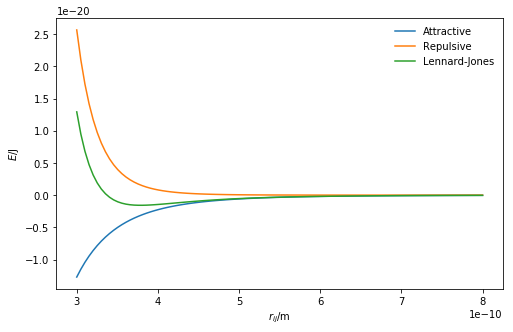
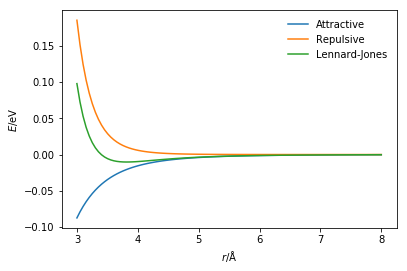
vdw after jg comments plus order change

Changed region(s): [[0.0, 0.0, 1.0, 0.9742], [0.5307, 0.9151, 0.5897, 0.9742]]

diff --git a/_build/classical_methods/van_der_waals.md b/_build/classical_methods/van_der_waals.md
@@ -4,33 +4,33 @@ redirect_from:
 interact_link: content/classical_methods/van_der_waals.ipynb
 title: 'The van der Waals interaction'
 prev_page:
+  url: /classical_methods/intro
+  title: 'Classical methods'
+next_page:
   url: /classical_methods/potential_models
   title: 'Potential models'
-next_page:
-  url: /parameterisation/intro
-  title: 'Parameterisation'
 comment: "***PROGRAMMATICALLY GENERATED, DO NOT EDIT. SEE ORIGINAL FILES IN /content***"
 ---
 
 ## The van der Waals interaction
 
-The potential model for the short-range interaction between atoms is less well defined.
-It is often referred to as the **van der Waals** interaction, and encompasses both the attractive London dispersion effects and the repulsive Pauli exclusion principle. 
-There are a variety of ways that the van der Waals interaction can be modelled. 
+Previously, you were given the opportunity to observe particles that interact only through the van der Waals interaction. 
+In order to achieve this it is necessary to have a **potential model**, a mathematical function, that is capable of modeling such an interaction. 
+It is known that the van der Waals interaction encompasses **two** forces; the first is the long-range attractive London dispersion and the second is the short-range Pauli exclusion principle.
+Therefore, or potential model must be able to model both of these aspects. 
 
-One commonly applied method is the **Lennard-Jones** potential model [[1](#references)], which considers the attractve London dispersion effects as follows, 
+One mathematical function that is commonly applied is the **Lennard-Jones** potential model [[1](#references)], which considers the attractve London dispersion forces as follows, 
 
-$$ E_{\text{attractive}}(r_{ij}) = \dfrac{-B}{r_{ij}^6},$$ 
+$$ E_{\text{attractive}}(r) = -4\varepsilon\Big(\dfrac{\sigma}{r}\Big)^6\;,$$ 
 
-where $B$ is a constant for the interaction and $r_{ij}$ is the distance between the two atoms. 
+where $\sigma$ is the distance at which the potential energy between the two particles is zero, $-\varepsilon$ is the potential energy at the equilbrium separation, and $r$ is the distance between the two atoms. 
 The Pauli exclusion principle is repulsive and only present over very short distances modelled as, 
 
-$$ E_{\text{repulsive}}(r_{ij}) = \dfrac{A}{r_{ij}^{12}},$$
+$$ E_{\text{repulsive}}(r) = 4\varepsilon\Big(\dfrac{\sigma}{r}\Big)^{12}\;,$$
 
-where $A$ is an interaction specific constant.
 The Python code below defines each of the components of the Lennard-Jones potential and the total energy of the interaction.
 These are then all plotted on a single graph. 
-The values of $A$ and $B$ are those associated with an argon-argon interaction, as defined by Rahman [[2](#references)].
+The values of $\sigma$ and $\varepsilon$ are those associated with an argon-argon interaction, as defined by Rahman [[2](#references)].
 
 
 
@@ -40,17 +40,19 @@ The values of $A$ and $B$ are those associated with an argon-argon interaction, 
 import numpy as np
 import matplotlib.pyplot as plt
 
-def attractive_energy(rij, b):
+def attractive_energy(r, epsilon, sigma):
     """
     Attractive component of the Lennard-Jones interaction
     energy.
     
     Parameters
     ----------
-    rij: float
-        Distance between particles i and j
-    b: float 
-        B parameter for interaction between i and j
+    r: float
+        Distance between two particles (Å)
+    epsilon: float 
+        Potential energy at the equilibrium bond length (eV)
+    sigma: float 
+        Distance at which the potential energy is zero (Å)
     
     Returns
     -------
@@ -58,19 +60,21 @@ def attractive_energy(rij, b):
         Energy of attractive component of Lennard-Jones 
         interaction
     """
-    return -b / np.power(rij, 6)
+    return -4 * epsilon * np.power(sigma / r, 6)
 
-def repulsive_energy(rij, a):
+def repulsive_energy(r, epsilon, sigma):
     """
     Repulsive component of the Lennard-Jones interaction
     energy.
     
     Parameters
     ----------
-    rij: float
-        Distance between particles i and j
-    a: float 
-        A parameter for interaction between i and j
+    r: float
+        Distance between two particles (Å)
+    epsilon: float 
+        Potential energy at the equilibrium bond length (eV)
+    sigma: float 
+        Distance at which the potential energy is zero (Å)
     
     Returns
     -------
@@ -78,38 +82,36 @@ def repulsive_energy(rij, a):
         Energy of repulsive component of Lennard-Jones 
         interaction
     """
-    return a / np.power(rij, 12)
+    return 4 * epsilon * np.power(sigma / r, 12)
 
-def lj_energy(rij, a, b):
+def lj_energy(r, epsilon, sigma):
     """
     Implementation of the Lennard-Jones potential 
     to calculate the energy of the interaction.
     
     Parameters
     ----------
-    rij: float
-        Distance between particles i and j
-    a: float 
-        A parameter for interaction between i and j
-    b: float 
-        B parameter for interaction between i and j
+    r: float
+        Distance between two particles (Å)
+    epsilon: float 
+        Potential energy at the equilibrium bond length (eV)
+    sigma: float 
+        Distance at which the potential energy is zero (Å)
     
     Returns
     -------
     float
-        Energy of the interaction between i and j.
+        Energy of the van der Waals interaction
     """
-    return repulsive_energy(rij, a) + attractive_energy(rij, b)
+    return repulsive_energy(r, epsilon, sigma) + attractive_energy(r, epsilon, sigma)
 
-r = np.linspace(3e-10, 8e-10, 100)
-fig = plt.figure(figsize=(8, 5))
-ax = fig.add_subplot(111)
-ax.plot(r, attractive_energy(r, 9.273e-78), label='Attractive')
-ax.plot(r, repulsive_energy(r, 1.363e-134), label='Repulsive')
-ax.plot(r, lj_energy(r, 1.363e-134, 9.273e-78), label='Lennard-Jones')
-ax.set_xlabel(r'$r_{ij}$/m')
-ax.set_ylabel(r'$E$/J')
-ax.legend(frameon=False)
+r = np.linspace(3, 8, 100)
+plt.plot(r, attractive_energy(r, 0.0103, 3.4), label='Attractive')
+plt.plot(r, repulsive_energy(r, 0.0103, 3.4), label='Repulsive')
+plt.plot(r, lj_energy(r, 0.0103, 3.4), label='Lennard-Jones')
+plt.xlabel(r'$r$/Å')
+plt.ylabel(r'$E$/eV')
+plt.legend(frameon=False)
 plt.show()
 ```
 
@@ -126,10 +128,9 @@ Similar to the Lennard-Jones potential, the Buckingham models the attractive ter
 However, instead of a twelfth power repulsion term an exponential function is utilised instead. 
 The total Buckingham potential has the following form, 
 
-$$ E_{\text{Buckingham}}(r_{ij}) = A\exp{-Br_{ij}} - \dfrac{C}{r_{ij}^6}, $$
+$$ E_{\text{Buckingham}}(r) = A\exp{(-Br)} - \dfrac{C}{r^6}, $$
 
 where $A$, $B$, and $C$ are interaction specific parameters that must be determined. 
-N.B. these are not the same $A$ and $B$ as in the Lennard-Jones potential. 
 
 The Python code below allows the comparison between these two van der Waals potentials, using defined parameters for an argon-argon interaction [[2,3](#references)].
 
@@ -144,30 +145,28 @@ def buckingham_energy(rij, a, b, c):
     
     Parameters
     ----------
-    rij: float
-        Distance between particles i and j
+    r: float
+        Distance between two particles (Å)
     a: float 
-        A parameter for interaction between i and j
+        A parameter for the interaction (eV)
     b: float 
-        B parameter for interaction between i and j
+        B parameter for the interaction (eV)
     c: float 
-        C parameter for interaction between i and j
-    
+        C parameter for the interaction (eV)
+        
     Returns
     -------
     float
-        Energy of the interaction between i and j.
+        Energy of the van der Waals interaction
     """
-    return a * np.exp(-b * rij) - c / np.power(rij, 6)
+    return a * np.exp(-b * r) - c / np.power(r, 6)
 
-r = np.linspace(3e-10, 8e-10, 100)
-fig = plt.figure(figsize=(8, 5))
-ax = fig.add_subplot(111)
-ax.plot(r, buckingham_energy(r, 1.69e-15, 3.66e10, 1.02e-77), label='Buckingham')
-ax.plot(r, lj_energy(r, 1.363e-134, 9.273e-78), label='Lennard-Jones')
-ax.set_xlabel(r'$r_{ij}$/m')
-ax.set_ylabel(r'$E$/J')
-ax.legend(frameon=False)
+r = np.linspace(3, 8, 100)
+plt.plot(r, buckingham_energy(r, 10549.313, 3.66, 63.670), label='Buckingham')
+plt.plot(r, lj_energy(r, 0.0103, 3.4), label='Lennard-Jones')
+plt.xlabel(r'$r$/Å')
+plt.ylabel(r'$E$/eV')
+plt.legend(frameon=False)
 plt.show()
 ```
 

diff --git a/_build/classical_methods/potential_models.md b/_build/classical_methods/potential_models.md
@@ -4,11 +4,11 @@ redirect_from:
 interact_link: content/classical_methods/potential_models.ipynb
 title: 'Potential models'
 prev_page:
-  url: /classical_methods/intro
-  title: 'Classical methods'
-next_page:
   url: /classical_methods/van_der_waals
   title: 'The van der Waals interaction'
+next_page:
+  url: /parameterisation/intro
+  title: 'Parameterisation'
 comment: "***PROGRAMMATICALLY GENERATED, DO NOT EDIT. SEE ORIGINAL FILES IN /content***"
 ---
 

diff --git a/_build/parameterisation/intro.md b/_build/parameterisation/intro.md
@@ -2,8 +2,8 @@
 interact_link: content/parameterisation/intro.ipynb
 title: 'Parameterisation'
 prev_page:
-  url: /classical_methods/van_der_waals
-  title: 'The van der Waals interaction'
+  url: /classical_methods/potential_models
+  title: 'Potential models'
 next_page:
   url: /parameterisation/off_the_shelf
   title: 'Off-the-shelf potentials'

diff --git a/_build/classical_methods/intro.md b/_build/classical_methods/intro.md
@@ -7,8 +7,8 @@ prev_page:
   url: /intro
   title: 'Home'
 next_page:
-  url: /classical_methods/potential_models
-  title: 'Potential models'
+  url: /classical_methods/van_der_waals
+  title: 'The van der Waals interaction'
 comment: "***PROGRAMMATICALLY GENERATED, DO NOT EDIT. SEE ORIGINAL FILES IN /content***"
 ---
 
